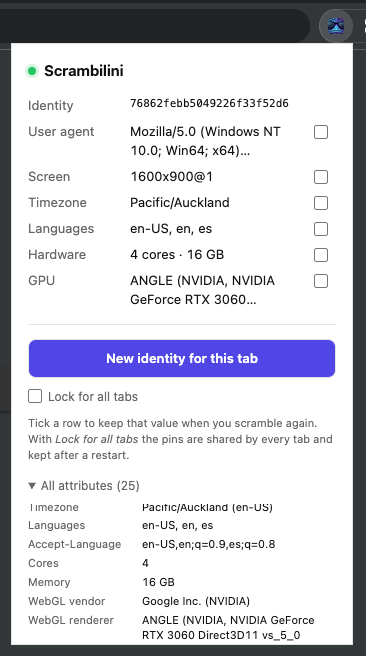
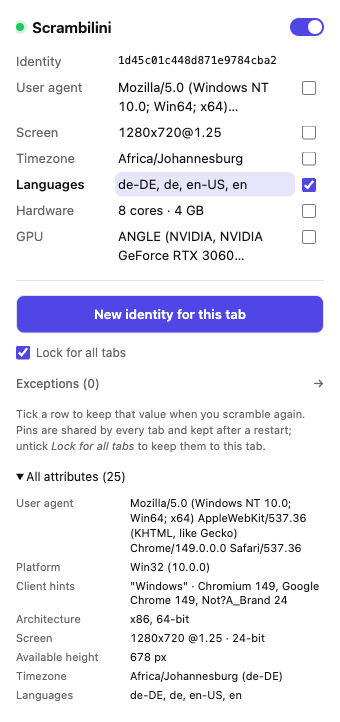
Update the README screenshots for the new UI
- regenerate the three screenshots with the on/off switch and the shared
  locks, and add the exceptions pane
- the popup now sizes to the active pane, and the exceptions pane no longer
  scrolls sideways when the domain input gets focus (overflow: clip)

Version 1.8.1.

diff --git a/chrome/src/popup.js b/chrome/src/popup.js
@@ -52,6 +52,13 @@ function sendSettings(patch) {
   });
 }
 
+function syncHeight() {
+  const views = $('views');
+  const exceptionsOpen = views.classList.contains('show-exceptions');
+  const active = exceptionsOpen ? $('exceptionsView') : views.querySelector('.view');
+  if (active) views.style.height = `${active.offsetHeight}px`;
+}
+
 function flash() {
   const facts = $('facts');
   facts.classList.remove('flash');
@@ -148,6 +155,7 @@ function render() {
   setValue('langs', (payload.languages || []).join(', '));
   setValue('hw', `${payload.cores} cores · ${payload.memory} GB`);
   setValue('gpu', payload.gpu);
+  syncHeight();
 }
 
 async function applySettings(patch, rerender = true) {
@@ -197,8 +205,15 @@ function removeException(entry) {
   render();
 
   $('enabled').addEventListener('change', () => applySettings({ enabled: $('enabled').checked }));
-  $('openExceptions').addEventListener('click', () => $('views').classList.add('show-exceptions'));
-  $('back').addEventListener('click', () => $('views').classList.remove('show-exceptions'));
+  $('openExceptions').addEventListener('click', () => {
+    $('views').classList.add('show-exceptions');
+    syncHeight();
+  });
+  $('back').addEventListener('click', () => {
+    $('views').classList.remove('show-exceptions');
+    syncHeight();
+  });
+  document.querySelector('details').addEventListener('toggle', syncHeight);
 
   $('addForm').addEventListener('submit', (event) => {
     event.preventDefault();

diff --git a/firefox/src/popup.js b/firefox/src/popup.js
@@ -52,6 +52,13 @@ function sendSettings(patch) {
   });
 }
 
+function syncHeight() {
+  const views = $('views');
+  const exceptionsOpen = views.classList.contains('show-exceptions');
+  const active = exceptionsOpen ? $('exceptionsView') : views.querySelector('.view');
+  if (active) views.style.height = `${active.offsetHeight}px`;
+}
+
 function flash() {
   const facts = $('facts');
   facts.classList.remove('flash');
@@ -148,6 +155,7 @@ function render() {
   setValue('langs', (payload.languages || []).join(', '));
   setValue('hw', `${payload.cores} cores · ${payload.memory} GB`);
   setValue('gpu', payload.gpu);
+  syncHeight();
 }
 
 async function applySettings(patch, rerender = true) {
@@ -197,8 +205,15 @@ function removeException(entry) {
   render();
 
   $('enabled').addEventListener('change', () => applySettings({ enabled: $('enabled').checked }));
-  $('openExceptions').addEventListener('click', () => $('views').classList.add('show-exceptions'));
-  $('back').addEventListener('click', () => $('views').classList.remove('show-exceptions'));
+  $('openExceptions').addEventListener('click', () => {
+    $('views').classList.add('show-exceptions');
+    syncHeight();
+  });
+  $('back').addEventListener('click', () => {
+    $('views').classList.remove('show-exceptions');
+    syncHeight();
+  });
+  document.querySelector('details').addEventListener('toggle', syncHeight);
 
   $('addForm').addEventListener('submit', (event) => {
     event.preventDefault();

diff --git a/shared/src/popup.js b/shared/src/popup.js
@@ -52,6 +52,13 @@ function sendSettings(patch) {
   });
 }
 
+function syncHeight() {
+  const views = $('views');
+  const exceptionsOpen = views.classList.contains('show-exceptions');
+  const active = exceptionsOpen ? $('exceptionsView') : views.querySelector('.view');
+  if (active) views.style.height = `${active.offsetHeight}px`;
+}
+
 function flash() {
   const facts = $('facts');
   facts.classList.remove('flash');
@@ -148,6 +155,7 @@ function render() {
   setValue('langs', (payload.languages || []).join(', '));
   setValue('hw', `${payload.cores} cores · ${payload.memory} GB`);
   setValue('gpu', payload.gpu);
+  syncHeight();
 }
 
 async function applySettings(patch, rerender = true) {
@@ -197,8 +205,15 @@ function removeException(entry) {
   render();
 
   $('enabled').addEventListener('change', () => applySettings({ enabled: $('enabled').checked }));
-  $('openExceptions').addEventListener('click', () => $('views').classList.add('show-exceptions'));
-  $('back').addEventListener('click', () => $('views').classList.remove('show-exceptions'));
+  $('openExceptions').addEventListener('click', () => {
+    $('views').classList.add('show-exceptions');
+    syncHeight();
+  });
+  $('back').addEventListener('click', () => {
+    $('views').classList.remove('show-exceptions');
+    syncHeight();
+  });
+  document.querySelector('details').addEventListener('toggle', syncHeight);
 
   $('addForm').addEventListener('submit', (event) => {
     event.preventDefault();

diff --git a/chrome/src/popup.html b/chrome/src/popup.html
@@ -27,11 +27,12 @@
       background: var(--bg);
       color: var(--fg);
     }
-    .slider { overflow: hidden; }
+    .slider { overflow: clip; }
     .views {
       display: flex;
+      align-items: flex-start;
       width: 200%;
-      transition: transform .22s ease;
+      transition: transform .22s ease, height .22s ease;
     }
     .views.show-exceptions { transform: translateX(-50%); }
     .view { width: 50%; flex: 0 0 50%; min-width: 0; }

diff --git a/firefox/src/popup.html b/firefox/src/popup.html
@@ -27,11 +27,12 @@
       background: var(--bg);
       color: var(--fg);
     }
-    .slider { overflow: hidden; }
+    .slider { overflow: clip; }
     .views {
       display: flex;
+      align-items: flex-start;
       width: 200%;
-      transition: transform .22s ease;
+      transition: transform .22s ease, height .22s ease;
     }
     .views.show-exceptions { transform: translateX(-50%); }
     .view { width: 50%; flex: 0 0 50%; min-width: 0; }

diff --git a/shared/src/popup.html b/shared/src/popup.html
@@ -27,11 +27,12 @@
       background: var(--bg);
       color: var(--fg);
     }
-    .slider { overflow: hidden; }
+    .slider { overflow: clip; }
     .views {
       display: flex;
+      align-items: flex-start;
       width: 200%;
-      transition: transform .22s ease;
+      transition: transform .22s ease, height .22s ease;
     }
     .views.show-exceptions { transform: translateX(-50%); }
     .view { width: 50%; flex: 0 0 50%; min-width: 0; }

diff --git a/README.md b/README.md
@@ -40,11 +40,15 @@ page reads describe the same machine.
 
 <p align="center">
   <img src="images/scrambilini-rand.png" width="250" alt="A fresh identity in the popup">
-  <img src="images/scrambilini-attributes.png" width="250" alt="The full attribute list">
-  <img src="images/scrambilini-lang-lock.png" width="250" alt="The language pinned for all tabs">
+  <img src="images/scrambilini-lang-lock.png" width="250" alt="A language pinned for all tabs">
 </p>
 
-<p align="center"><sub>a fresh identity · the full attribute list · a language pinned for all tabs</sub></p>
+<p align="center">
+  <img src="images/scrambilini-attributes.png" width="250" alt="The full attribute list">
+  <img src="images/scrambilini-exceptions.png" width="250" alt="Per-site exceptions">
+</p>
+
+<p align="center"><sub>a fresh identity · a language pinned for all tabs · the full attribute list · per-site exceptions</sub></p>
 
 ## How it works
 
